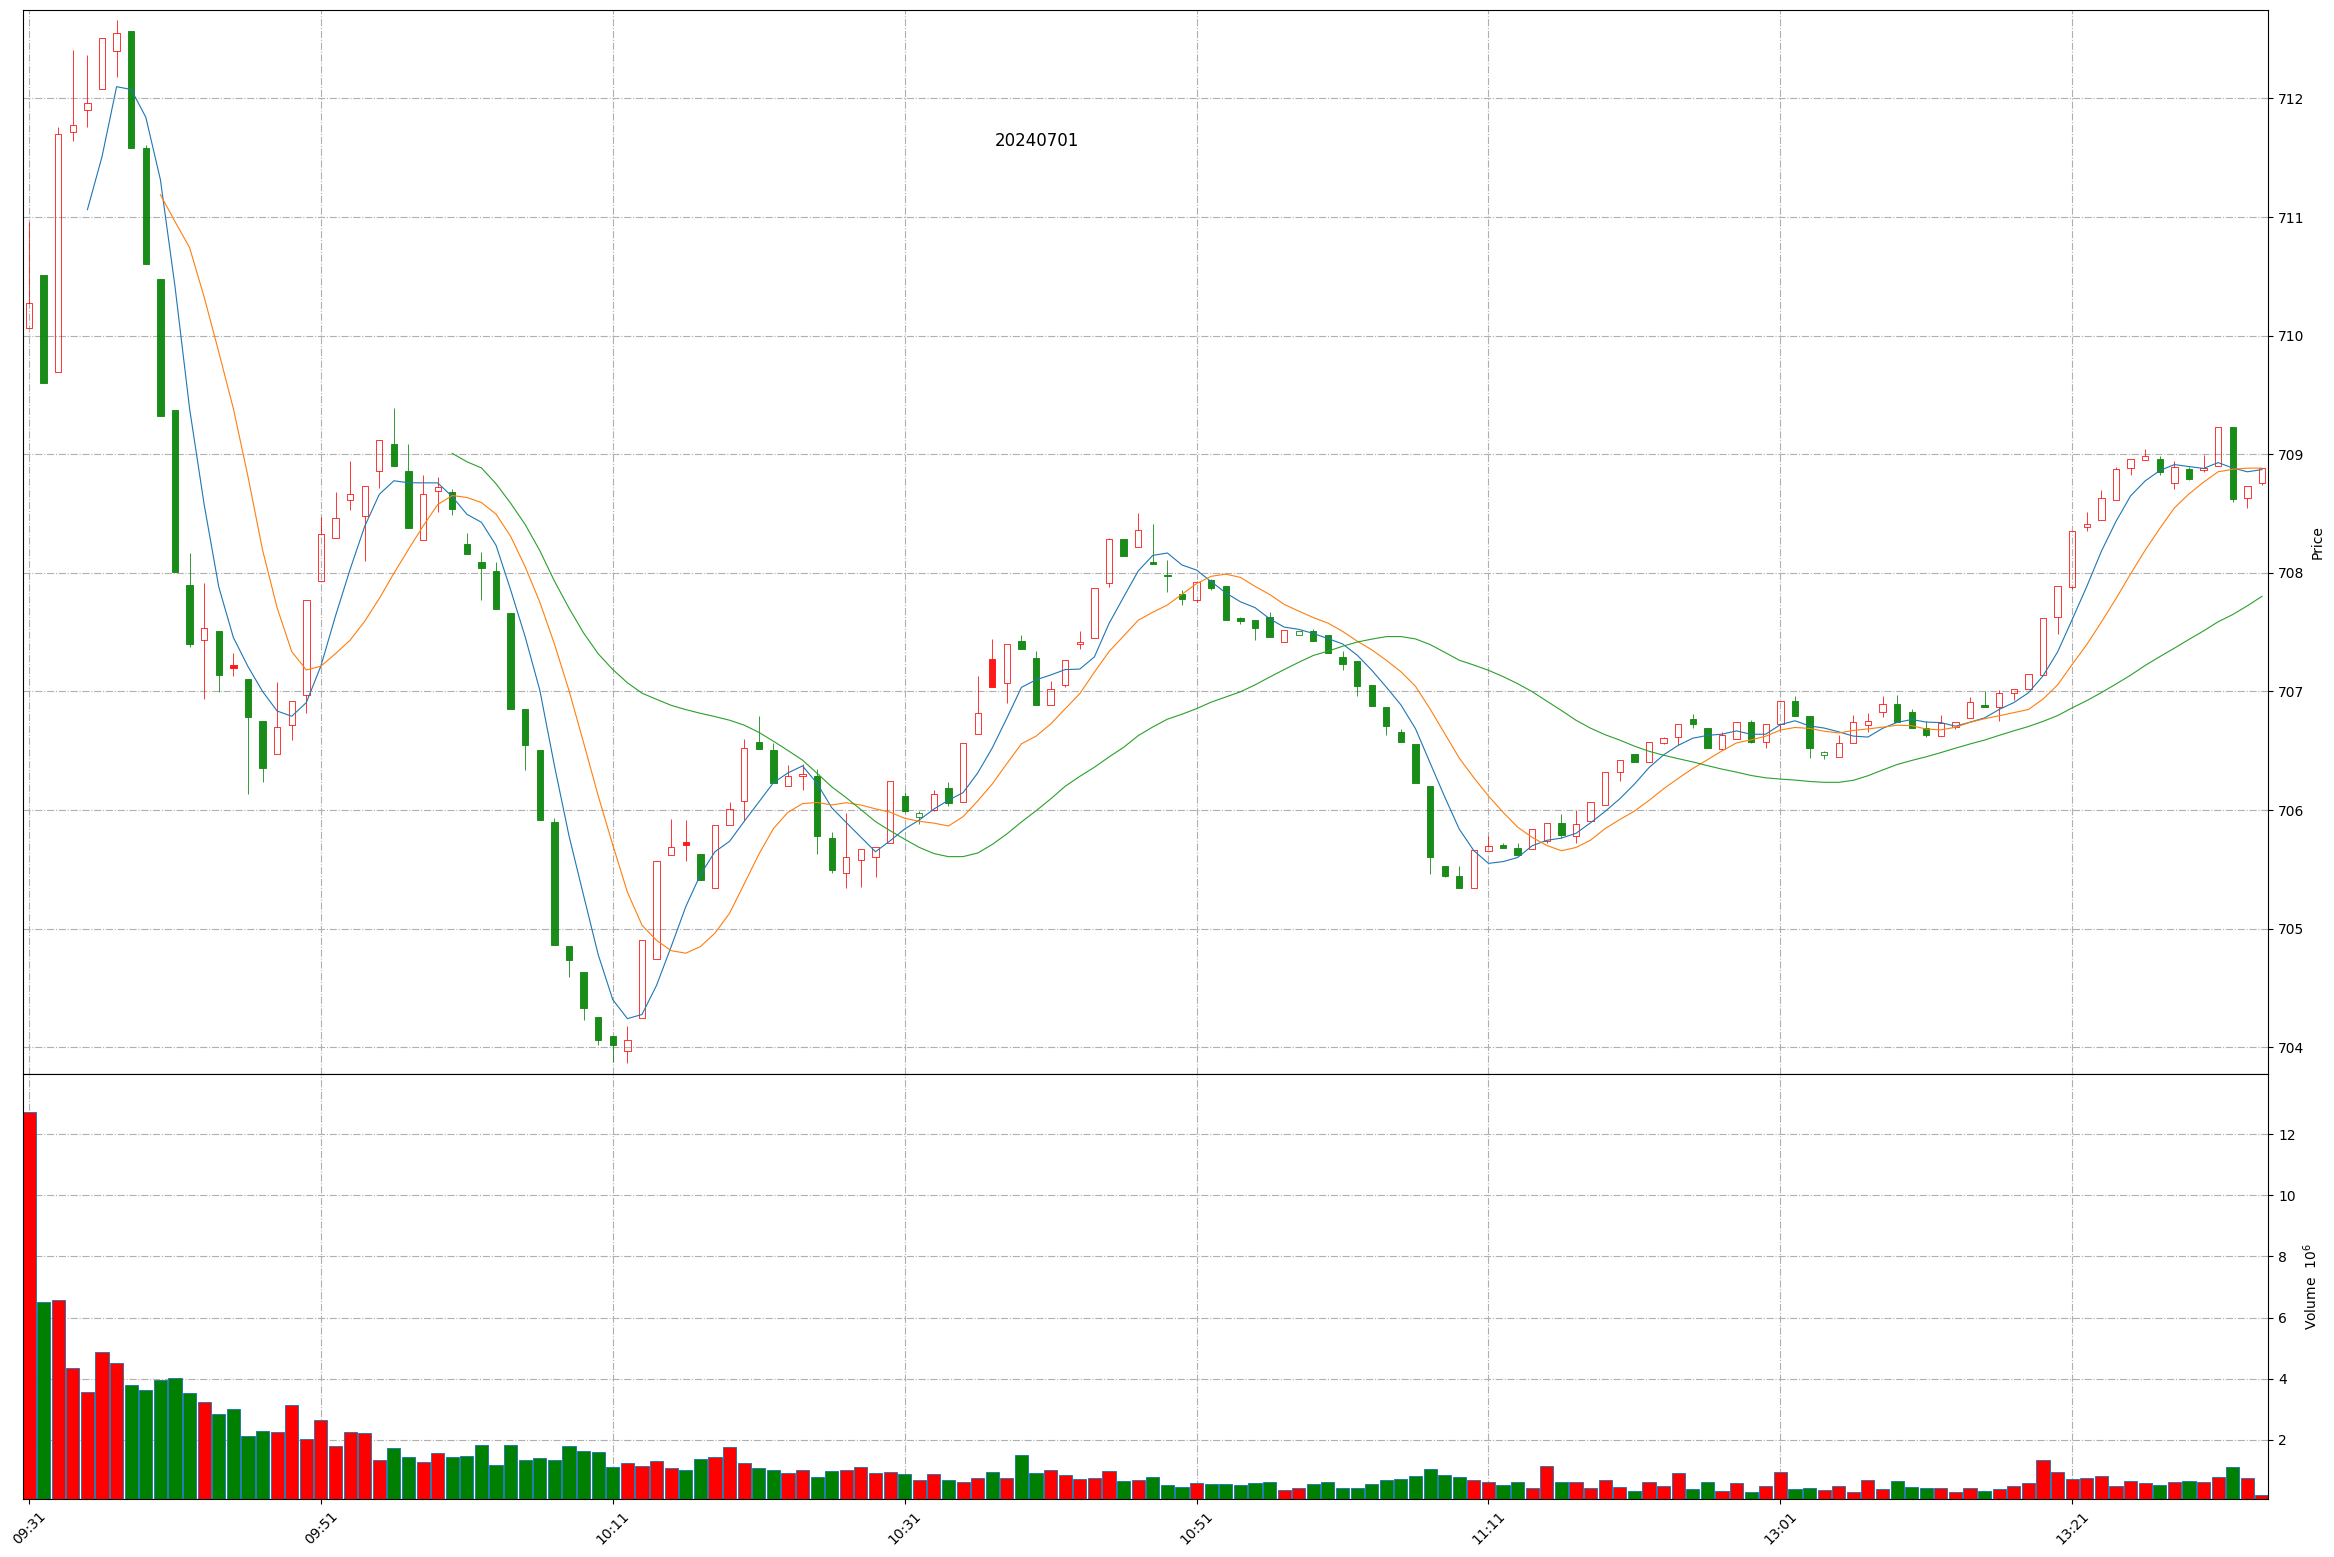
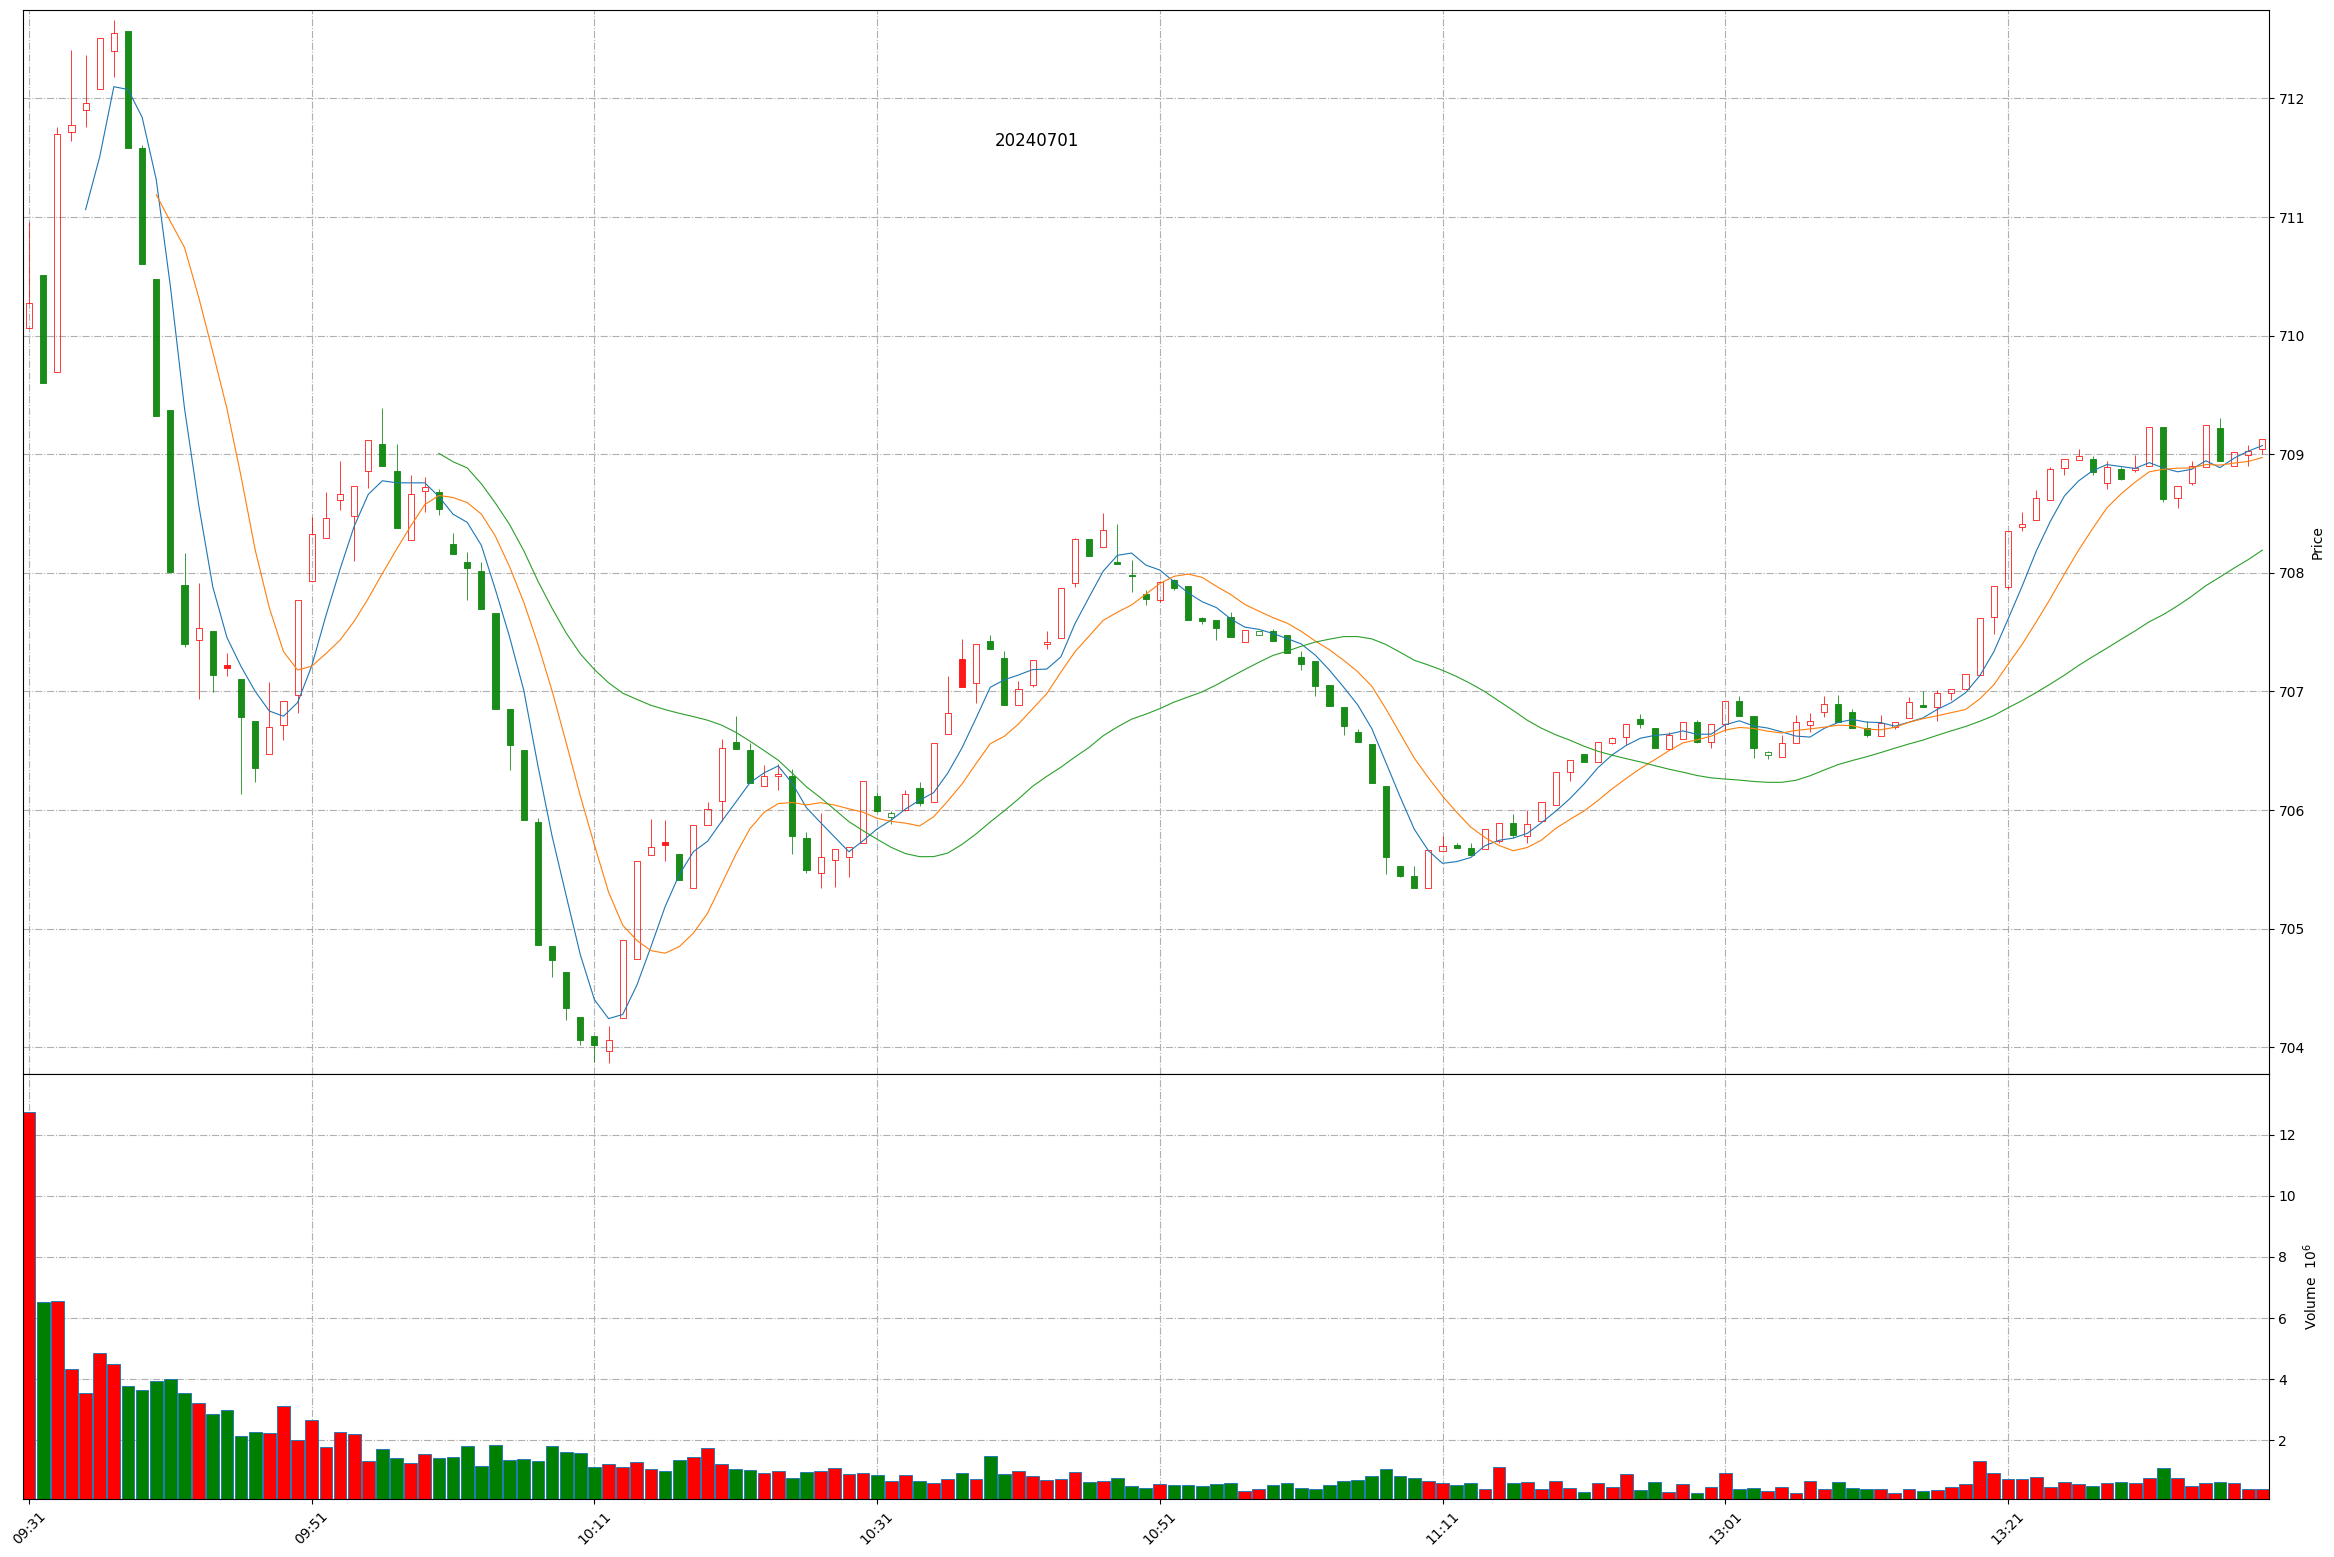
Github action update at 2024-07-01 13:38:45.

diff --git a/README.md b/README.md
@@ -1,11 +1,11 @@
 
 # Daily-A-share-market-quotes 每日 A 股指数（5min 更新）- 20240701
 
-### 上证指数 20240701 13:33
+### 上证指数 20240701 13:38
 ![](./fig/2024/7/20240701-sh000001.png)
 
-### 深证成指 20240701 13:33
+### 深证成指 20240701 13:38
 ![](./fig/2024/7/20240701-sz399001.png)
 
-### 北证50 20240701 13:33
+### 北证50 20240701 13:38
 ![](./fig/2024/7/20240701-bj899050.png)
